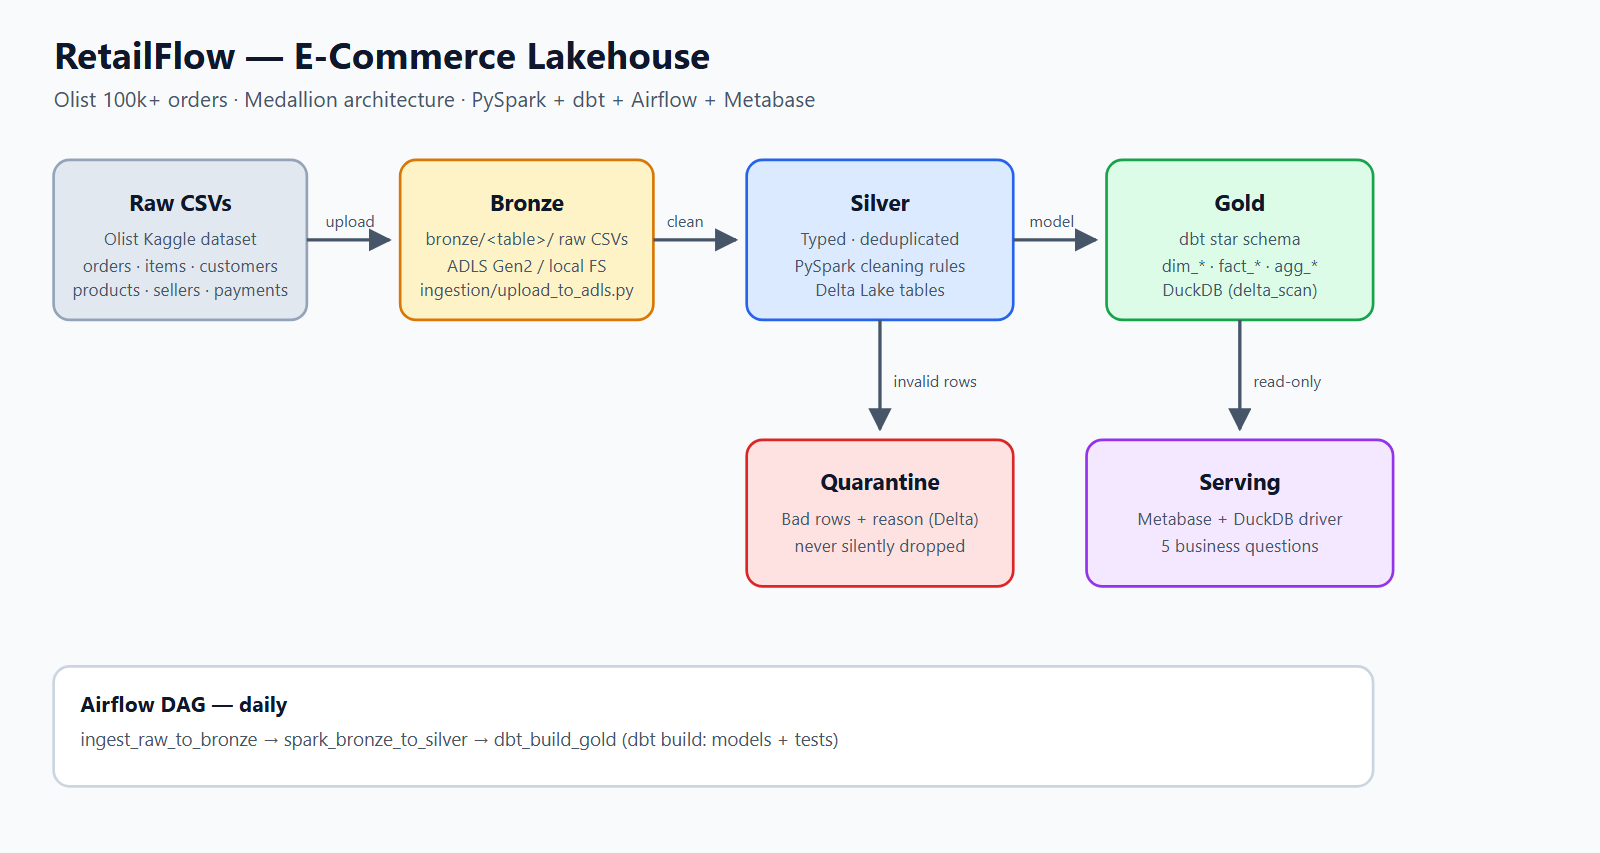
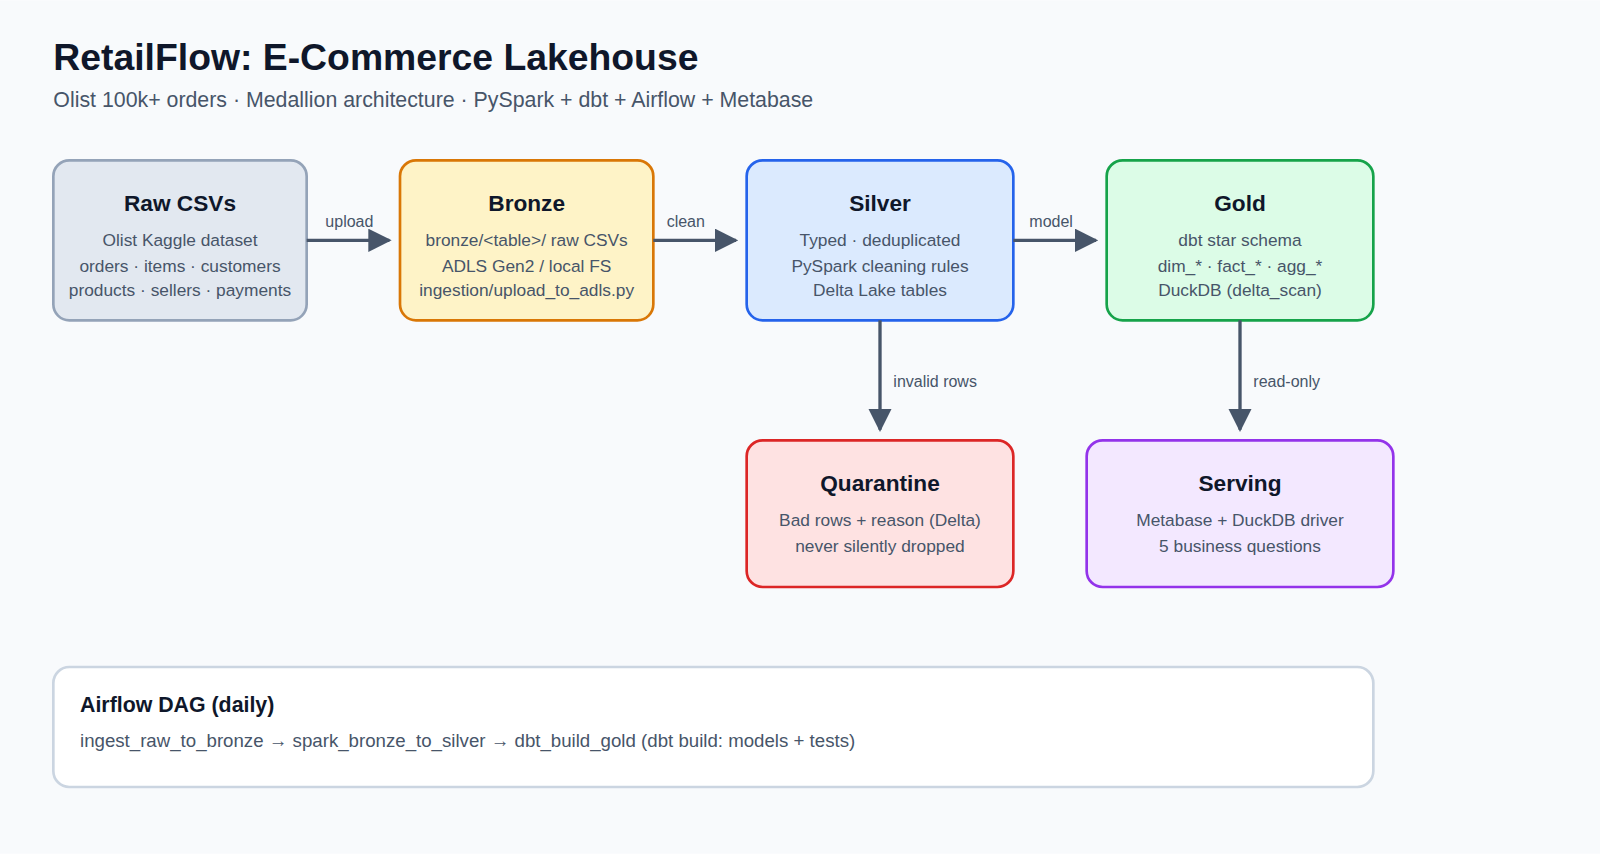
docs: replace em dashes with plain punctuation
Swap every em dash in the README, the dashboard title and the architecture
diagram for colons, commas or parentheses, and re-render both PNGs so the
screenshots match.

diff --git a/dashboard/setup_metabase.py b/dashboard/setup_metabase.py
@@ -14,7 +14,7 @@ from pathlib import Path
 MB_URL = os.environ.get("MB_URL", "http://localhost:3000")
 DB_NAME = "RetailFlow Gold"
 DB_FILE = "/data/lakehouse/retailflow.duckdb"  # path inside the Metabase container
-DASHBOARD_NAME = "RetailFlow — E-Commerce Analytics"
+DASHBOARD_NAME = "RetailFlow: E-Commerce Analytics"
 QUERIES_SQL = Path(__file__).with_name("queries.sql")
 
 BRL = {"number_style": "currency", "currency": "BRL"}

diff --git a/README.md b/README.md
@@ -29,10 +29,10 @@ flowchart LR
 
 **Pipeline flow**
 
-1. **Bronze** — `ingestion/upload_to_adls.py` uploads each raw CSV to its own table folder, `bronze/<table>/<file>.csv` (e.g. `bronze/orders/olist_orders_dataset.csv`), on ADLS Gen2 or a local folder when `USE_LOCAL_STORAGE=true`. The file → table mapping (`BRONZE_TABLES`) is shared with the Spark job. The geolocation CSV is skipped because no model uses it.
-2. **Silver** — `spark_jobs/bronze_to_silver.py` reads the Bronze CSVs, casts types, null-checks business keys, applies accepted-value rules, deduplicates, and writes **Delta Lake** tables to `silver/<table>/`. Bad rows (including uncastable values and duplicate keys) go to the Delta table `bronze/quarantine/<table>/` with a `quarantine_reason` column. Delta commits each overwrite through `_delta_log/`, so a crashed run leaves the previous version readable instead of an empty folder.
-3. **Gold** — dbt reads Silver with DuckDB's `delta` extension (`delta_scan`) and builds 7 staging views, 4 dimensions, 2 facts, and 6 business aggregates in DuckDB, backed by 63 data-quality tests.
-4. **Serving** — Metabase connects to the DuckDB warehouse through the community DuckDB driver; `dashboard/setup_metabase.py` builds the dashboard from the queries in `dashboard/queries.sql`.
+1. **Bronze:** `ingestion/upload_to_adls.py` uploads each raw CSV to its own table folder, `bronze/<table>/<file>.csv` (e.g. `bronze/orders/olist_orders_dataset.csv`), on ADLS Gen2 or a local folder when `USE_LOCAL_STORAGE=true`. The file → table mapping (`BRONZE_TABLES`) is shared with the Spark job. The geolocation CSV is skipped because no model uses it.
+2. **Silver:** `spark_jobs/bronze_to_silver.py` reads the Bronze CSVs, casts types, null-checks business keys, applies accepted-value rules, deduplicates, and writes **Delta Lake** tables to `silver/<table>/`. Bad rows (including uncastable values and duplicate keys) go to the Delta table `bronze/quarantine/<table>/` with a `quarantine_reason` column. Delta commits each overwrite through `_delta_log/`, so a crashed run leaves the previous version readable instead of an empty folder.
+3. **Gold:** dbt reads Silver with DuckDB's `delta` extension (`delta_scan`) and builds 7 staging views, 4 dimensions, 2 facts, and 6 business aggregates in DuckDB, backed by 63 data-quality tests.
+4. **Serving:** Metabase connects to the DuckDB warehouse through the community DuckDB driver; `dashboard/setup_metabase.py` builds the dashboard from the queries in `dashboard/queries.sql`.
 
 ## Business Questions Answered
 
@@ -52,8 +52,8 @@ flowchart LR
 | Order lines | 112,650 |
 | Sellers | 3,095 |
 | Total item + freight revenue (excl. canceled/unavailable) | R$ 15,735,527.03 |
-| Highest-revenue category | `health_beauty` — R$ 1,255,695.13 |
-| Slowest-delivery state | `RR` — 29.3 average days |
+| Highest-revenue category | `health_beauty`, R$ 1,255,695.13 |
+| Slowest-delivery state | `RR`, 29.3 average days |
 | Late-delivery rate (delivered orders) | 6.8% |
 | Top seller | R$ 229,237.63 revenue, 4.14 average review score |
 | Repeat-buyer rate | 3.1% (Olist is dominated by one-off customers) |
@@ -216,14 +216,14 @@ python dashboard/setup_metabase.py
 
 Metabase rejects common passwords.
 
-The script (stdlib only) waits for Metabase, creates the admin user on first start, adds the DuckDB database `/data/lakehouse/retailflow.duckdb` with the driver's **read-only** option on, builds one card per business question from [`dashboard/queries.sql`](dashboard/queries.sql), and lays them out on the dashboard **RetailFlow — E-Commerce Analytics**. It looks everything up by name, so re-running it updates the cards instead of duplicating them. Open the URL it prints (e.g. <http://localhost:3000/dashboard/2>).
+The script (stdlib only) waits for Metabase, creates the admin user on first start, adds the DuckDB database `/data/lakehouse/retailflow.duckdb` with the driver's **read-only** option on, builds one card per business question from [`dashboard/queries.sql`](dashboard/queries.sql), and lays them out on the dashboard **RetailFlow: E-Commerce Analytics**. It looks everything up by name, so re-running it updates the cards instead of duplicating them. Open the URL it prints (e.g. <http://localhost:3000/dashboard/2>).
 
 The lakehouse folder is mounted read-only (`:ro`), so a read-write Metabase connection would fail. A read-only DuckDB connection still locks the file: after a dashboard query, Metabase holds the lock for about 10 minutes (measured), and any `dbt build` in that window fails with a lock error. The DAG's `dbt_build_gold` task retries twice, 10 minutes apart, which outlasts it. For a manual `dbt build` on the host, wait 10 minutes after using the dashboard, or stop Metabase first (`cd dashboard && docker compose stop`).
 
 ## Data Quality
 
 - **Silver rules:** null business keys, invalid order status, invalid payment type/value, invalid review scores, negative prices/freight, and duplicate keys.
-- **Quarantine:** rejected rows, including extra copies of a duplicate key (`duplicate_key`), are persisted with `quarantine_reason` — never silently dropped. Bronze rows always equal clean + quarantined.
+- **Quarantine:** rejected rows, including extra copies of a duplicate key (`duplicate_key`), are persisted with `quarantine_reason`, never silently dropped. Bronze rows always equal clean + quarantined.
 - **Revenue rule:** every revenue number excludes `canceled` and `unavailable` orders via `fact_orders.is_revenue_order`.
 - **dbt tests:** 63 tests covering `not_null`, `unique`, `accepted_values`, and `relationships` between facts and dimensions.
 - **CI:** pytest, dbt compilation, and a dedicated Airflow DAG-structure job.
@@ -264,7 +264,7 @@ Cost: ADLS Gen2 LRS at this data size (well under 1 GB) costs cents per month. `
 
 ## Dataset
 
-[Brazilian E-Commerce Public Dataset by Olist](https://www.kaggle.com/datasets/olistbr/brazilian-ecommerce) — 9 CSVs, ~100k orders (2016–2018). Prices are in BRL. The data is licensed [CC BY-NC-SA 4.0](https://creativecommons.org/licenses/by-nc-sa/4.0/) and isn't redistributed in this repo (`data/` is gitignored); download it from Kaggle.
+[Brazilian E-Commerce Public Dataset by Olist](https://www.kaggle.com/datasets/olistbr/brazilian-ecommerce): 9 CSVs, ~100k orders (2016–2018). Prices are in BRL. The data is licensed [CC BY-NC-SA 4.0](https://creativecommons.org/licenses/by-nc-sa/4.0/) and isn't redistributed in this repo (`data/` is gitignored); download it from Kaggle.
 
 ## License
 
